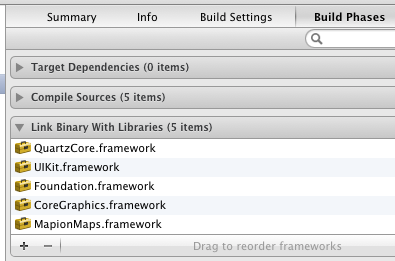
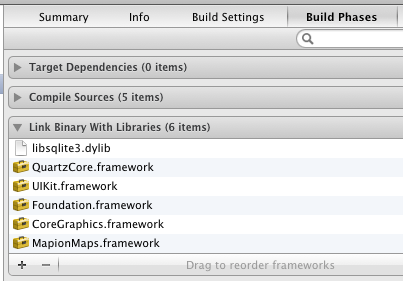
sqlite3ライブラリ必要＆キャッシュ上限追記

Changed region(s): [[0.0, 0.0, 1.0, 1.0]]

diff --git a/document.html b/document.html
@@ -69,6 +69,7 @@
               <li><a href="document.html#coordinatetopoint">緯度経度をタッチ座標に変換する</a></li>
               <li><a href="document.html#orgmap">独自地図を表示する</a></li>
               <li><a href="document.html#original">独自画像を表示する</a></li>
+              <li><a href="document.html#cache">キャッシュの上限値を設定する</a></li>
             </ul>
             <h4><a href="apikey.html">APIキー</a></h4>
             <h4><a href="download.html">ダウンロード</a></h4>
@@ -101,11 +102,11 @@
             <ol>
               <li><a href="apikey.html">APIキー</a>からAPIキーを取得する</li>
               <li><a href="download.html">ダウンロード</a>からframeworkをダウンロードし解凍する</li>
-              <li>解凍したディレクトリ内のpin@2x.pngをプロジェクトにコピーする</li>
+              <li>解凍したディレクトリ内のpin@2x.png,loading.pngをプロジェクトにコピーする</li>
               <li>解凍したディレクトリをプロジェクトに追加する</li>
-              <li>QuartzCore.frameworkをプロジェクトに追加する</li>
+              <li>QuartzCore.framework,libsqlite3.dylibをプロジェクトに追加する</li>
             </ol>
-            <img src="img/link_binary_with_libraries.png" width="395" height="261">
+            <img src="img/link_binary_with_libraries.png" width="403" height="281">
             
             <hr />
             
@@ -558,6 +559,17 @@ CGPoint point = [mapView coordinateToPixel:coordinate];
   [self.view addSubview:mapView];
 }
 </pre>
+
+            <hr />
+            
+            <h3><a name="cache"></a>キャッシュの上限値を設定する</h3>
+            <h4>MMMapViewDelegateのcacheCapacityを実装する</h4>
+<pre class="prettyprint">
+- (NSUInteger)cacheCapacity {
+  return 1000; // 4000以上を設定することはできません
+}
+</pre>
+
 
           </div>
         </div>

diff --git a/apikey.html b/apikey.html
@@ -68,6 +68,7 @@
               <li><a href="document.html#coordinatetopoint">緯度経度をタッチ座標に変換する</a></li>
               <li><a href="document.html#orgmap">独自地図を表示する</a></li>
               <li><a href="document.html#original">独自画像を表示する</a></li>
+              <li><a href="document.html#cache">キャッシュの上限値を設定する</a></li>
             </ul>
             <h4><a href="apikey.html">APIキー</a></h4>
             <h4><a href="download.html">ダウンロード</a></h4>

diff --git a/download.html b/download.html
@@ -68,6 +68,7 @@
               <li><a href="document.html#coordinatetopoint">緯度経度をタッチ座標に変換する</a></li>
               <li><a href="document.html#orgmap">独自地図を表示する</a></li>
               <li><a href="document.html#original">独自画像を表示する</a></li>
+              <li><a href="document.html#cache">キャッシュの上限値を設定する</a></li>
             </ul>
             <h4><a href="apikey.html">APIキー</a></h4>
             <h4><a href="download.html">ダウンロード</a></h4>

diff --git a/index.html b/index.html
@@ -68,6 +68,7 @@
               <li><a href="document.html#coordinatetopoint">緯度経度をタッチ座標に変換する</a></li>
               <li><a href="document.html#orgmap">独自地図を表示する</a></li>
               <li><a href="document.html#original">独自画像を表示する</a></li>
+              <li><a href="document.html#cache">キャッシュの上限値を設定する</a></li>
             </ul>
             <h4><a href="apikey.html">APIキー</a></h4>
             <h4><a href="download.html">ダウンロード</a></h4>

diff --git a/kiyaku.html b/kiyaku.html
@@ -68,6 +68,7 @@
               <li><a href="document.html#coordinatetopoint">緯度経度をタッチ座標に変換する</a></li>
               <li><a href="document.html#orgmap">独自地図を表示する</a></li>
               <li><a href="document.html#original">独自画像を表示する</a></li>
+              <li><a href="document.html#cache">キャッシュの上限値を設定する</a></li>
             </ul>
             <h4><a href="apikey.html">APIキー</a></h4>
             <h4><a href="download.html">ダウンロード</a></h4>

diff --git a/sample.html b/sample.html
@@ -68,6 +68,7 @@
               <li><a href="document.html#coordinatetopoint">緯度経度をタッチ座標に変換する</a></li>
               <li><a href="document.html#orgmap">独自地図を表示する</a></li>
               <li><a href="document.html#original">独自画像を表示する</a></li>
+              <li><a href="document.html#cache">キャッシュの上限値を設定する</a></li>
             </ul>
             <h4><a href="apikey.html">APIキー</a></h4>
             <h4><a href="download.html">ダウンロード</a></h4>
